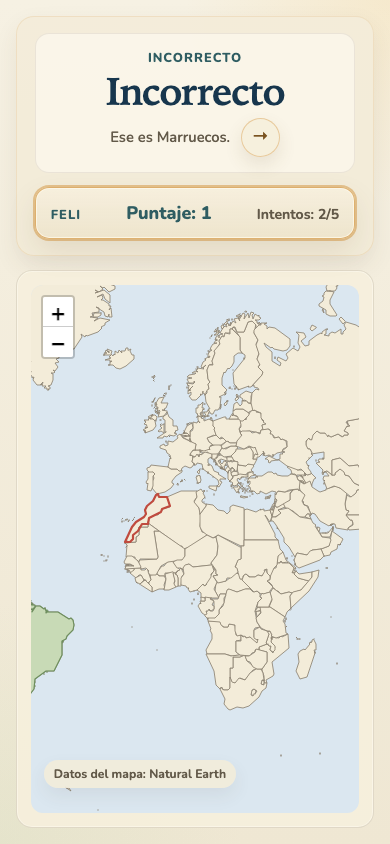
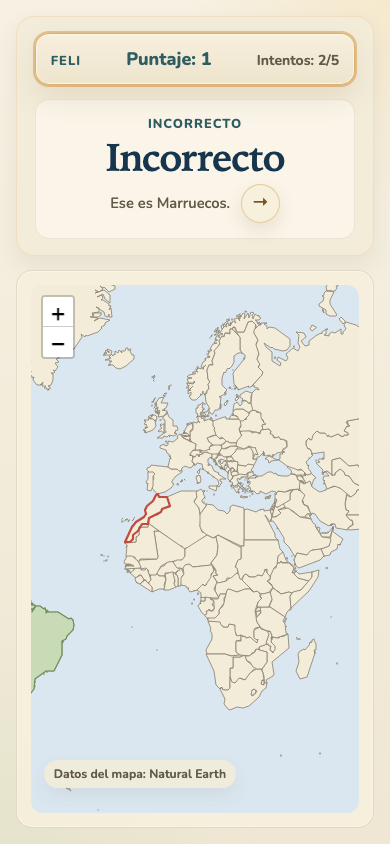
version

Changed region(s): [[0.0615, 0.0308, 0.9231, 0.3081]]

diff --git a/app/web/src/styles.css b/app/web/src/styles.css
@@ -400,7 +400,7 @@ h1 {
   color: #403729;
 }
 
-@media (max-width: 900px) {
+@media (max-width: 768px) {
   .atlas-shell {
     align-items: stretch;
     padding: 1rem;
@@ -428,6 +428,14 @@ h1 {
 
   .play-grid .score-card:not(.score-card-active) {
     display: none;
+  }
+
+  .play-grid .score-card-active {
+    order: 1;
+  }
+
+  .play-grid .display-card {
+    order: 2;
   }
 
   .play-grid .score-card-active {
